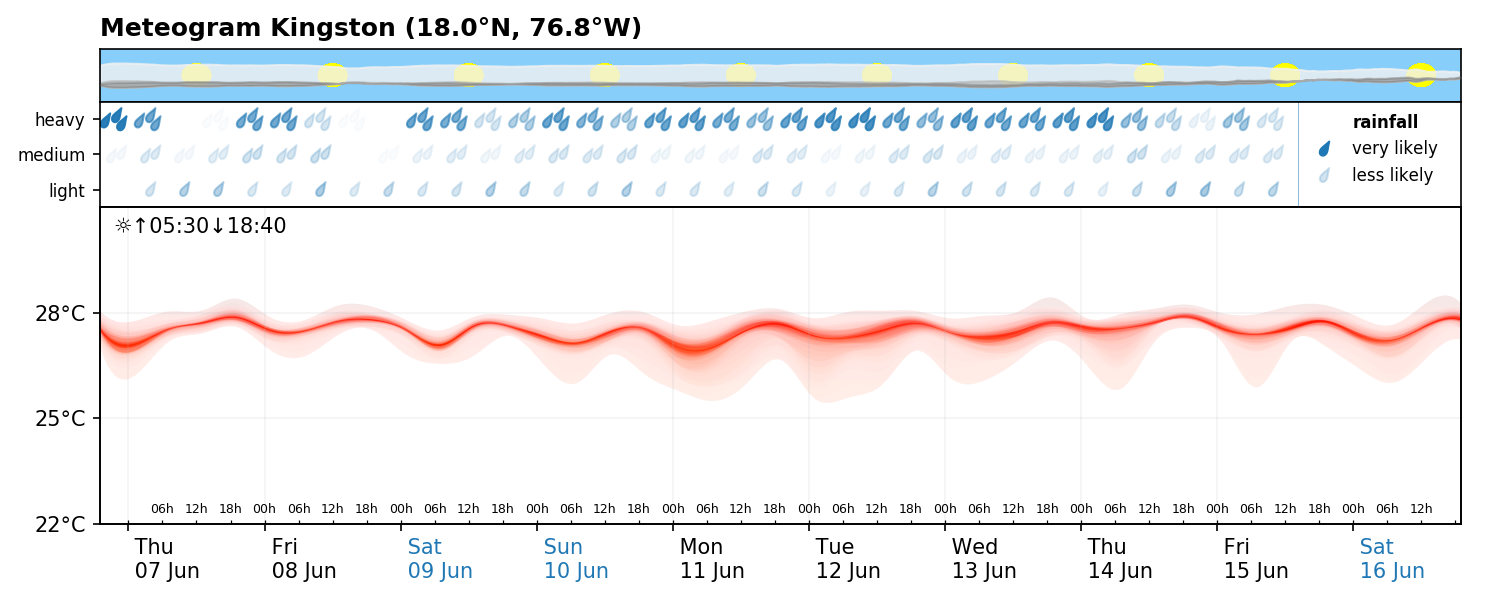
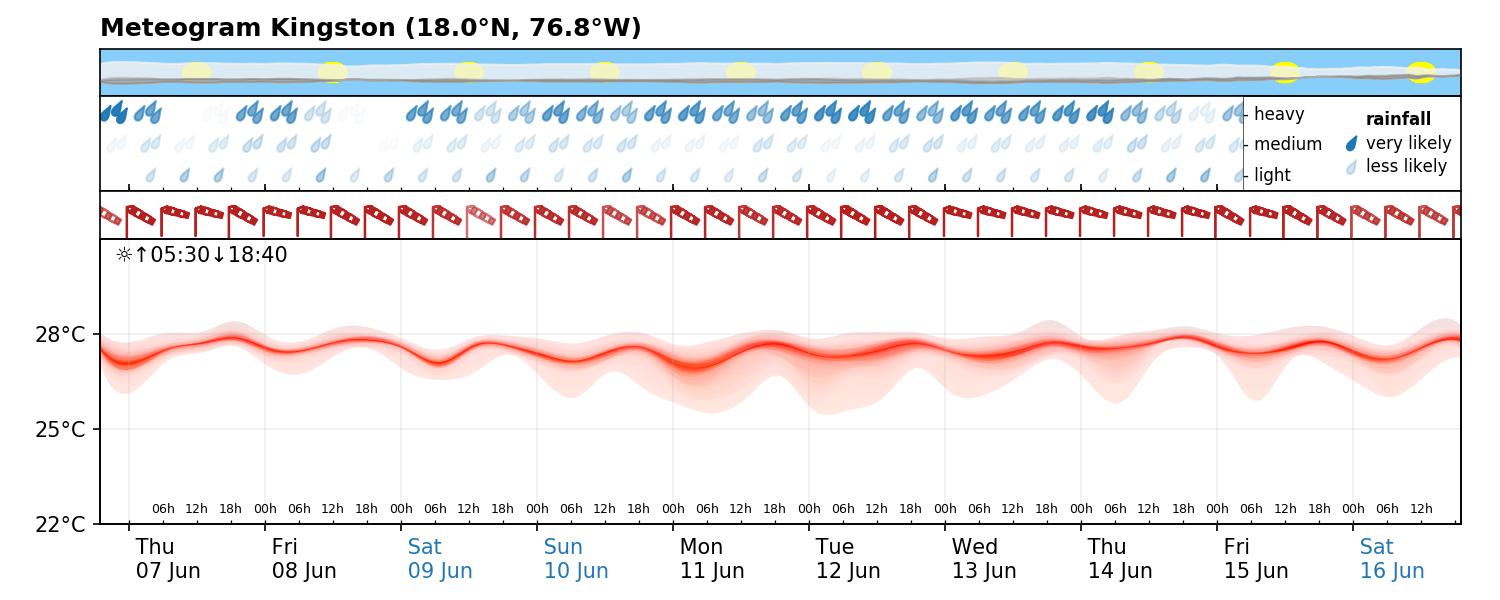
with beaufort scale

diff --git a/meteogram.py b/meteogram.py
@@ -10,7 +10,7 @@ from matplotlib.ticker import FormatStrFormatter
 import datetime
 from matplotlib import gridspec
 from scipy.interpolate import interp1d
-from matplotlib.patches import Circle, Ellipse
+from matplotlib.patches import Circle, Ellipse, Rectangle
 from matplotlib.collections import PatchCollection
 from geopy.geocoders import Nominatim
 from sunrise import sun
@@ -18,6 +18,7 @@ from tzwhere import tzwhere
 import pytz
 import warnings
 from droplet import droplet
+from wind_sock import wind_sock
 
 # LOCATION ARGUMENT
 tz = tzwhere.tzwhere()
@@ -164,9 +165,8 @@ except:
 dates = [d+utcoffset for d in dates]
 
 # shifted datevector for rain
-rain_left_space = 6
 three_hours = datetime.timedelta(hours=3)
-rdates = [d+three_hours for d in dates[:-rain_left_space]]
+rdates = [d+three_hours for d in dates[:-1]]
 
 # extract data for given location
 t = DAT.variables["t2m"][:,:,lati,loni]-273.15      # Kelvin to degC
@@ -175,7 +175,7 @@ v = DAT.variables["v10"][:,:,lati,loni]
 lcc = DAT.variables["lcc"][:,:,lati,loni]
 mcc = DAT.variables["mcc"][:,:,lati,loni]
 hcc = DAT.variables["hcc"][:,:,lati,loni]
-lsp = DATrain.variables["lsp"][:,:,lati,loni]*1e4       # only large-scale precip
+lsp = DATrain.variables["lsp"][:,:,lati,loni]*1e4       # only large-scale precip...
 
 # smooth and mean data
 SPLINE_RES = 360
@@ -233,13 +233,48 @@ def rain_prob(lsp,color=[0.12,0.47,0.71]):
     lightrain[:,3] = P[1,:]
     medrain[:,3] = P[2,:]
     heavyrain[:,3] = P[3,:]
-    
+        
     rain_explanation = colormat[:2,:]
     rain_explanation[:,-1] = [0.2,1.]   # values for example transparency
     
     return lightrain,medrain,heavyrain,rain_explanation
     
 lightrain,medrain,heavyrain,rain_explanation = rain_prob(lsp)
+
+# wind speed
+spd = np.sqrt(u**2 + v**2)
+
+def storm(spd):
+    threshold1 = 8.     # m/s   5 Beaufort 
+    threshold2 = 10.7   # 6 Beaufort
+    threshold3 = 13.8   # 7 Beaufort
+    
+    p_storm = np.mean(spd >= threshold1,axis=1)
+    
+    s_storm = np.zeros_like(p_storm)
+    for i,s in enumerate(spd):
+        st = s >= threshold1
+        if np.sum(st):
+            s_storm[i] = np.median(s[st])
+    
+    storm_strength = np.zeros((3,s_storm.shape[0]))
+    storm_strength[0,:] = 1.*(np.logical_and(s_storm >= threshold1,s_storm < threshold2))
+    storm_strength[1,:] = 1.*(np.logical_and(s_storm >= threshold2,s_storm < threshold3))
+    storm_strength[2,:] = 1.*(s_storm >= threshold3)
+     
+    color=[0.71,0.12,0.12]
+    
+    # turn into alpha values
+    colormat = np.zeros((p_storm.shape[0],4))
+    colormat[:,0] = color[0]         # RGB values of "C0" matplotlib standard
+    colormat[:,1] = color[1]
+    colormat[:,2] = color[2]
+    
+    colormat[:,3] = p_storm
+    
+    return colormat,storm_strength.astype(np.bool)
+
+p_storm,storm_strength = storm(spd)
 
 #  axes formatting
 def cloud_ax_format(ax,dates,loc):
@@ -251,15 +286,30 @@ def cloud_ax_format(ax,dates,loc):
 def rain_ax_format(ax,dates,rain_explanation,dsize=78,dstring=(2,0,45)):
     ax.set_xlim(dates[0],dates[-1])
     ax.set_ylim(-0.5,2.5)
-    ax.set_xticks([])
     ax.set_yticks([])
-    ax.plot([0.88,0.88],[-1,3],transform=ax.transAxes,alpha=.5,lw=0.5)
-    ax.scatter([0.9,0.9],[0.3,0.55],dsize,color=rain_explanation,transform=ax.transAxes,marker=droplet(rot=-30))
-    ax.text(0.92,0.75,"rainfall",fontsize=8,fontweight="bold",transform=ax.transAxes,ha="left")
-    ax.text(0.92,0.5,"very likely",fontsize=8,transform=ax.transAxes,ha="left")
-    ax.text(0.92,0.25,"less likely",fontsize=8,transform=ax.transAxes,ha="left")
-    ax.yaxis.set_ticks(np.arange(3))
-    ax.set_yticklabels(('light','medium','heavy'), fontsize=8)
+    #ax.xaxis.grid(alpha=0.2)
+    #ax.xaxis.set_major_locator(WeekdayLocator(byweekday=range(7)))
+    #ax.set_xticklabels([])
+    ax.xaxis.set_minor_locator(HourLocator(np.arange(0, 25, 6)))    # minor
+    ax.xaxis.set_major_locator(WeekdayLocator(byweekday=range(5)))
+    ax.get_xaxis().set_tick_params(which='minor', direction='in')
+    ax.get_xaxis().set_tick_params(which='major', direction='in')
+    ax.set_xticklabels([])
+    
+    bg_rect = Rectangle((0.84,0),0.16,1.,linewidth=.3,edgecolor='k',facecolor='w',transform=ax.transAxes,zorder=2)
+    ax.add_patch(bg_rect)
+    
+    ax.scatter([0.92,0.92],[0.25,0.5],dsize,color=rain_explanation,transform=ax.transAxes,marker=droplet(rot=-30),zorder=3)
+    ax.text(0.93,0.70,"rainfall",fontsize=8,fontweight="bold",transform=ax.transAxes,ha="left")
+    ax.text(0.93,0.45,"very likely",fontsize=8,transform=ax.transAxes,ha="left")
+    ax.text(0.93,0.2,"less likely",fontsize=8,transform=ax.transAxes,ha="left")
+    
+    ax.text(0.84,0.75,"- heavy",fontsize=8,transform=ax.transAxes,ha="left")
+    ax.text(0.84,0.43,"- medium",fontsize=8,transform=ax.transAxes,ha="left")
+    ax.text(0.84,0.11,"- light",fontsize=8,transform=ax.transAxes,ha="left")
+    
+    #ax.yaxis.set_ticks(np.arange(3))
+    #ax.set_yticklabels(('light','medium','heavy'), fontsize=8)
     
 
 def temp_ax_format(ax,tminmax,dates,utcoffset):
@@ -273,7 +323,7 @@ def temp_ax_format(ax,tminmax,dates,utcoffset):
     ax.xaxis.set_minor_locator(HourLocator(np.arange(0, 25, 6)))    # minor
     ax.xaxis.set_minor_formatter(DateFormatter("%Hh"))
     ax.get_xaxis().set_tick_params(which='minor', direction='in',pad=-10,labelsize=6)
-    ax.grid(alpha=0.15)
+    ax.grid(alpha=0.2)
 
     # major weekdays not weekend in black
     ax.xaxis.set_major_locator(WeekdayLocator(byweekday=range(5)))
@@ -287,6 +337,7 @@ def temp_ax_format(ax,tminmax,dates,utcoffset):
     ax_weekend.xaxis.set_major_formatter(DateFormatter(" %a\n %d %b"))
     ax_weekend.xaxis.tick_bottom()
     plt.setp(ax_weekend.get_xticklabels(), ha="left", color="C0")
+    ax_weekend.grid(alpha=0.2)
     
     # remove labels at edges
     if dates[-1].hour < 13:     # remove only if there is not enough space
@@ -300,8 +351,18 @@ def temp_ax_format(ax,tminmax,dates,utcoffset):
     ax.get_xticklabels(which="minor")[-1].set_visible(False)
     ax.get_xticklabels(which="minor")[0].set_visible(False)
 
+def wind_ax_format(ax,dates):
+    ax.set_xlim(dates[0],dates[-1])
+    ax.set_ylim(0.2,2.5)
+    ax.set_yticks([])
+    # ax.xaxis.set_minor_locator(HourLocator(np.arange(0, 25, 6)))    # minor
+    # ax.xaxis.set_major_locator(WeekdayLocator(byweekday=range(5)))
+    # ax.get_xaxis().set_tick_params(which='minor', direction='in')
+    # ax.get_xaxis().set_tick_params(which='major', direction='in')
+    ax.set_xticklabels([])
 
-def temp_plotter(ax, dates, t_mean_spline, t_data_spline, tminmax,color='white',alpha=0.1):
+
+def temp_plotter(ax, dates, t_mean_spline, t_data_spline, tminmax,color='white',alpha=0.09):
     
     # these temperatures will be associated with the lower and upper end of the colormap
     clev = [-5,32]
@@ -342,25 +403,42 @@ def rain_plotter(ax,lightrain,medrain,heavyrain,rdates,dsize=78,dstring=(2,0,45)
     dropletpath = droplet(rot=-30)
 
     # light rain
-    rain_ax.scatter(rdates,np.zeros_like(rdates),dsize,color=lightrain,marker=dropletpath)
+    rain_ax.scatter([d for d in rdates],np.zeros_like(rdates),dsize*0.9,color=lightrain,marker=dropletpath)
     
     # medium rain
     rain_ax.scatter([d+dt for d in rdates],1.05+np.zeros_like(rdates),dsize,color=medrain,marker=dropletpath)
     rain_ax.scatter([d-dt for d in rdates],0.95+np.zeros_like(rdates),dsize,color=medrain,marker=dropletpath)
     
     # heavy rain
-    rain_ax.scatter([d for d in rdates],2.1+np.zeros_like(rdates),dsize,color=heavyrain,marker=dropletpath)
-    rain_ax.scatter([d+dt for d in rdates],1.87+np.zeros_like(rdates),dsize,color=heavyrain,marker=dropletpath)
-    rain_ax.scatter([d-2.2*dt for d in rdates],1.95+np.zeros_like(rdates),dsize,color=heavyrain,marker=dropletpath)
+    rain_ax.scatter([d for d in rdates],2.1+np.zeros_like(rdates),dsize*1.1,color=heavyrain,marker=dropletpath)
+    rain_ax.scatter([d+dt for d in rdates],1.87+np.zeros_like(rdates),dsize*1.1,color=heavyrain,marker=dropletpath)
+    rain_ax.scatter([d-2.2*dt for d in rdates],1.95+np.zeros_like(rdates),dsize*1.1,color=heavyrain,marker=dropletpath)
 
+def wind_plotter(ax,dates,p_storm,storm_strength):
+    
+    windsock_weak = wind_sock(rot=60)
+    windsock_medi = wind_sock(rot=75)
+    windsock_stro = wind_sock(rot=90)
+    
+    q0,q1,q2 = storm_strength       # for readability
+    
+    ax.scatter([d for q,d in zip(q0,dates) if q],np.ones_like(dates)[q0],400,color=p_storm[q0,:],marker=windsock_weak)
+    ax.scatter([d for q,d in zip(q1,dates) if q],np.ones_like(dates)[q1],400,color=p_storm[q1,:],marker=windsock_medi)
+    ax.scatter([d for q,d in zip(q2,dates) if q],np.ones_like(dates)[q2],400,color=p_storm[q2,:],marker=windsock_stro)
+    
+    if np.sum(storm_strength) == 0:
+        ax.text(0.995,0.05,"no strong winds expected",fontsize=8,transform=ax.transAxes,ha="right")
+    
+    
 # PLOTTING
 fig = plt.figure(figsize=(10,4))
 
 # subplots adjust
-all_ax = gridspec.GridSpec(3, 1, height_ratios=[1,2,6],hspace=0)
+all_ax = gridspec.GridSpec(4, 1, height_ratios=[1,2,1,6],hspace=0)
 cloud_ax = plt.subplot(all_ax[0])
 rain_ax = plt.subplot(all_ax[1])
-temp_ax = plt.subplot(all_ax[2])
+wind_ax = plt.subplot(all_ax[2])
+temp_ax = plt.subplot(all_ax[3])
 
 plt.tight_layout(rect=[0.02,.03,1,0.97])
 
@@ -368,10 +446,12 @@ plt.tight_layout(rect=[0.02,.03,1,0.97])
 cloud_ax_format(cloud_ax,dates,loc)
 rain_ax_format(rain_ax,dates,rain_explanation)
 temp_ax_format(temp_ax,tminmax,dates,utcoffset)
+wind_ax_format(wind_ax,dates)
 
 temp_plotter(temp_ax, dates, t_mean_spline, t_data_spline, tminmax)
 add_clouds_to(cloud_ax,dates,hcc_data_spline,mcc_data_spline,lcc_data_spline)
 rain_plotter(rain_ax,lightrain,medrain,heavyrain,rdates)
+wind_plotter(wind_ax,dates,p_storm,storm_strength)
 
 if OUTPUT:
     plt.savefig("examples/meteogram_"+loc.address.split(",")[0]+".png",dpi=150)

diff --git a/wind_sock.py b/wind_sock.py
@@ -1,0 +1,111 @@
+import matplotlib.pyplot as plt
+from matplotlib.path import Path
+import matplotlib.patches as patches
+from matplotlib.collections import PatchCollection
+import numpy as np
+
+def rotmat(rot):
+    d = 2*np.pi/360.    # assume input in degree
+    return np.array([[np.cos(d*rot),-np.sin(d*rot)],[np.sin(d*rot),np.cos(d*rot)]])
+        
+def wind_sock(xy=(0.,0.),width=0.4,height=.8,rot=35):
+    
+    
+    # convert to x,y being in the middle of the droplet
+    x = xy[0]-width/2
+    y = xy[1]-height/2
+    
+    polewidth = width*0.03
+    
+    verts_pole = [
+    (x, y),
+    (x, y+height),
+    (x+polewidth, y+height),
+    (x+polewidth,y),
+    (x,y)
+    ]
+    
+    sock_heigth = 0.8
+    sock_width1 = 0.2
+    sock_width6 = 0.15
+    sock_dist1 = sock_heigth*5/6
+    sock_dist2 = sock_heigth*4/6
+    sock_dist3 = sock_heigth*3/6
+    sock_dist4 = sock_heigth*2/6
+    sock_dist5 = sock_heigth/6
+
+    x = 0.
+    y = -sock_heigth
+    
+    sw = lambda sd: sock_width6 + 2*sd/sock_dist1*(sock_width1 - sock_width6)/2.
+    
+    sock_width2 = sw(sock_dist2)
+    sock_width3 = sw(sock_dist3)
+    sock_width4 = sw(sock_dist4)
+    sock_width5 = sw(sock_dist5)
+    
+    verts_sock1 = [
+    (x+sock_width1/2,y+sock_dist1),
+    (x,y+sock_heigth),
+    (x-sock_width1/2,y+sock_dist1),
+    (x+sock_width1/2,y+sock_dist1),
+    (x+sock_width2/2,y+sock_dist2),
+    (x-sock_width2/2,y+sock_dist2),
+    (x-sock_width3/2,y+sock_dist3),
+    (x-sock_width1/2,y+sock_dist1),
+    (x,y+sock_heigth),
+    (x+sock_width1/2,y+sock_dist1)
+    ]
+    
+    verts_sock2 = [
+    (x+sock_width2/2,y+sock_dist2),
+    (x+sock_width3/2,y+sock_dist3),
+    (x-sock_width3/2,y+sock_dist3),
+    (x-sock_width4/2,y+sock_dist4),
+    (x+sock_width4/2,y+sock_dist4),
+    (x+sock_width5/2,y+sock_dist5),
+    (x+sock_width2/2,y+sock_dist2)
+    ]
+    
+    verts_sock3 = [
+    (x-sock_width4/2,y+sock_dist4),
+    (x-sock_width6/2,y),
+    (x+sock_width6/2,y),
+    (x+sock_width5/2,y+sock_dist5),
+    (x-sock_width5/2,y+sock_dist5),
+    (x-sock_width4/2,y+sock_dist4)
+    ]
+    
+    codes_pole = [Path.MOVETO,
+            Path.LINETO,
+            Path.LINETO,
+            Path.LINETO,
+            Path.CLOSEPOLY]
+    
+    codes_sock1 = [Path.MOVETO]+[Path.LINETO]*(len(verts_sock1)-2)+[Path.CLOSEPOLY]
+    codes_sock2 = [Path.MOVETO]+[Path.LINETO]*(len(verts_sock2)-2)+[Path.CLOSEPOLY]
+    codes_sock3 = [Path.MOVETO]+[Path.LINETO]*(len(verts_sock3)-2)+[Path.CLOSEPOLY]
+    
+    xys = [xy[0]-width/2+polewidth,xy[1]+height/2]
+    
+    if rot != 0:
+        R = rotmat(rot)
+        verts_sock1 = R.dot(np.array(verts_sock1).T).T + np.array(xys)
+        verts_sock2 = R.dot(np.array(verts_sock2).T).T + np.array(xys)
+        verts_sock3 = R.dot(np.array(verts_sock3).T).T + np.array(xys)
+    
+    
+    verts = verts_pole+[(a,b) for a,b in verts_sock1]+[(a,b) for a,b in verts_sock2]+[(a,b) for a,b in verts_sock3]
+    codes = codes_pole+codes_sock1+codes_sock2+codes_sock3
+    
+    return Path(verts,codes)
+    
+
+# fig,ax = plt.subplots(1,1)
+# patch = patches.PathPatch(wind_sock(), facecolor='C3', lw=1)
+# ax.add_patch(patch)
+# 
+# ax.set_xlim(-1,1)
+# ax.set_ylim(-1,1)
+# plt.savefig("wind_sock.png",dpi=300)
+# plt.close(fig)

diff --git a/create_examples.py b/create_examples.py
@@ -4,7 +4,7 @@ sys.path.append(HERE_PATH)
 
 locations = ["Santiago Chile",
             "Kingston Jamaica",
-            "ECMWF Reading",
+            "Oxford UK",
             "Hobart Australia",
             "Fairbanks Alaska"]
 
